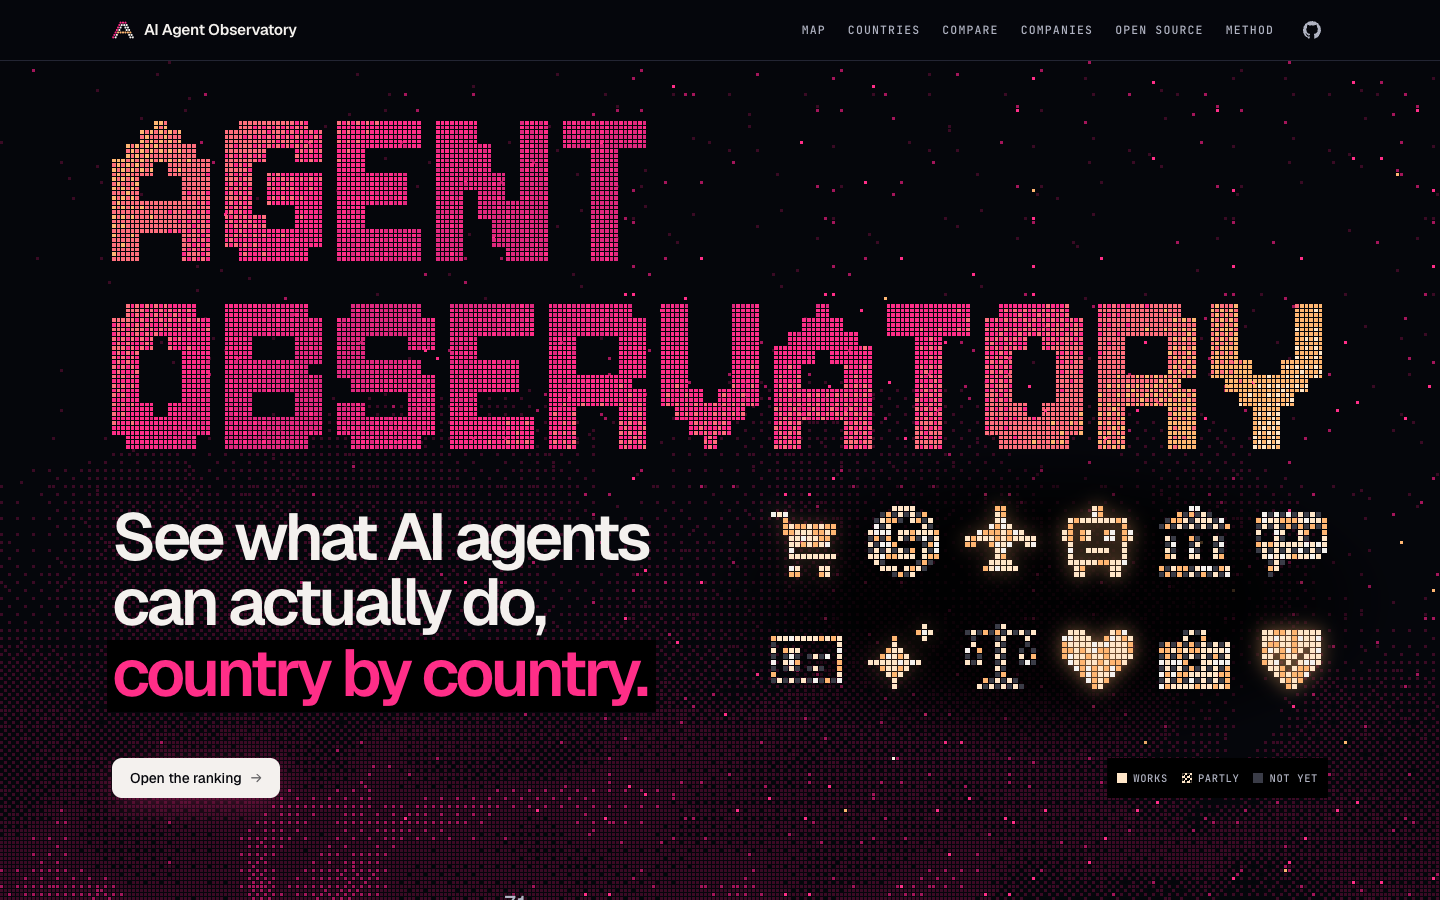
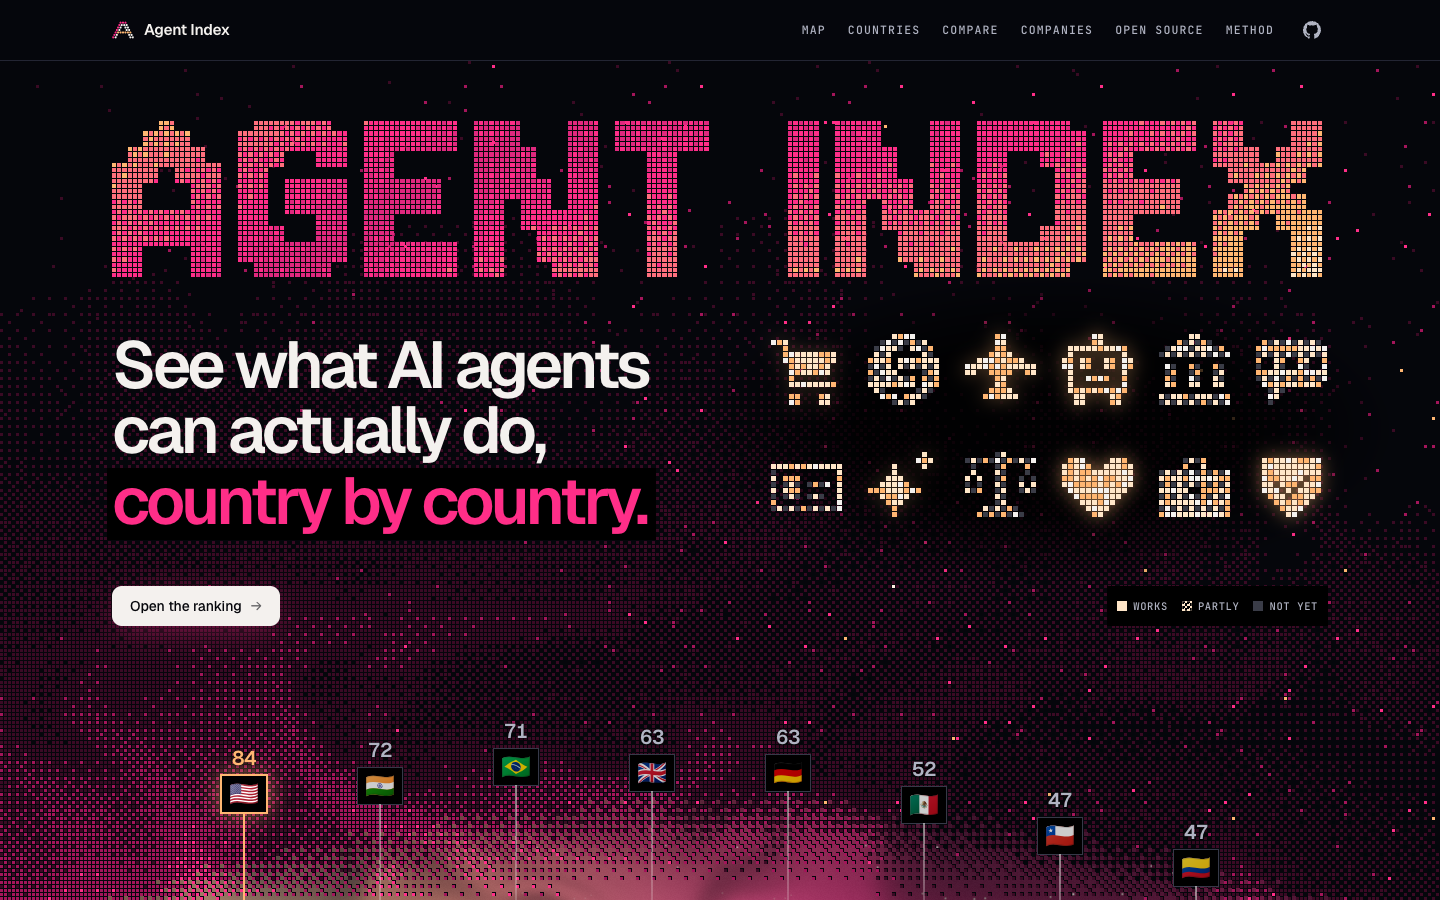
Rename the site to Agent Index (#127)
* Rename the site from AI Agent Observatory to Agent Index

The page title, brand, footer, aria labels, console label and hero
wordmark now say Agent Index. The wordmark is one line on wide screens
and two stacked lines on phones. README, data license credit and the
verify skill's title check use the new name too.

* Retake README screenshots with the Agent Index name

---------

diff --git a/index.html b/index.html
@@ -5,7 +5,7 @@
   <meta name="color-scheme" content="dark">
   <meta name="theme-color" content="#05060b">
   <meta name="viewport" content="width=device-width, initial-scale=1">
-  <title>AI Agent Observatory</title>
+  <title>Agent Index</title>
   <meta name="description" content="What AI agents can actually do in each country: shop, pay, book, bank and more. Every status is backed by a source.">
   <link rel="icon" href="favicon.svg" type="image/svg+xml">
   <link rel="preconnect" href="https://fonts.googleapis.com">
@@ -38,9 +38,9 @@
 <body>
   <header class="nav">
     <div class="wrap nav-inner">
-      <a class="brand" href="#top" aria-label="AI Agent Observatory, home">
+      <a class="brand" href="#top" aria-label="Agent Index, home">
         <svg viewBox="0 -1 9 9" aria-hidden="true"><circle cx="3.5" cy="0.5" r=".42" class="brand-edge"/><circle cx="4.5" cy="0.5" r=".42" class="brand-edge"/><circle cx="5.5" cy="0.5" r=".42" class="brand-edge"/><circle cx="3" cy="1.5" r=".42" class="brand-edge"/><circle cx="4" cy="1.5" r=".42"/><circle cx="5" cy="1.5" r=".42"/><circle cx="6" cy="1.5" r=".42"/><circle cx="2.5" cy="2.5" r=".42" class="brand-edge"/><circle cx="3.5" cy="2.5" r=".42"/><circle cx="5.5" cy="2.5" r=".42"/><circle cx="6.5" cy="2.5" r=".42"/><circle cx="2" cy="3.5" r=".42" class="brand-edge"/><circle cx="3" cy="3.5" r=".42"/><circle cx="6" cy="3.5" r=".42"/><circle cx="7" cy="3.5" r=".42"/><circle cx="1.5" cy="4.5" r=".42" class="brand-edge"/><circle cx="2.5" cy="4.5" r=".42" class="brand-bar"/><circle cx="3.5" cy="4.5" r=".42" class="brand-bar"/><circle cx="4.5" cy="4.5" r=".42" class="brand-bar"/><circle cx="5.5" cy="4.5" r=".42" class="brand-bar"/><circle cx="6.5" cy="4.5" r=".42" class="brand-bar"/><circle cx="7.5" cy="4.5" r=".42" class="brand-bar"/><circle cx="1" cy="5.5" r=".42" class="brand-edge"/><circle cx="2" cy="5.5" r=".42"/><circle cx="7" cy="5.5" r=".42"/><circle cx="8" cy="5.5" r=".42"/><circle cx="0.5" cy="6.5" r=".42" class="brand-edge"/><circle cx="1.5" cy="6.5" r=".42"/><circle cx="7.5" cy="6.5" r=".42"/><circle cx="8.5" cy="6.5" r=".42"/></svg>
-        <span>AI Agent Observatory</span>
+        <span>Agent Index</span>
       </a>
       <button type="button" class="nav-menu" aria-expanded="false" aria-controls="site-nav" data-nav-menu>Menu</button>
       <nav id="site-nav" aria-label="Sections">
@@ -61,7 +61,7 @@
     <section class="hero" aria-labelledby="hero-title" data-hero>
       <canvas class="hero-sky" aria-hidden="true"></canvas>
       <div class="wrap hero-wm-wrap">
-        <canvas class="hero-wm" role="img" aria-label="Agent Observatory"></canvas>
+        <canvas class="hero-wm" role="img" aria-label="Agent Index"></canvas>
       </div>
       <div class="wrap hero-copy">
         <div class="hero-grid">
@@ -87,7 +87,7 @@
          the selected country on the right, then the matrix, the ranking, the categories and the newest sources. -->
     <div class="term" data-term>
       <div class="term-bar">
-        <span class="term-app"><i aria-hidden="true"></i>Observatory</span>
+        <span class="term-app"><i aria-hidden="true"></i>Agent Index</span>
         <span class="term-path">countries / <b data-term-country></b></span>
         <span class="term-fill" aria-hidden="true"></span>
         <span class="term-date"><i aria-hidden="true"></i>Data <span data-asof-iso></span></span>
@@ -250,7 +250,7 @@
   </main>
 
   <footer class="wrap foot foot-site">
-    <p>AI Agent Observatory, made by <a class="nowrap" href="https://ramonsanchez.xyz/" target="_blank" rel="noopener noreferrer">Ramon Sanchez</a>. Availability changes fast. A cell says what was true on <span data-asof></span>.</p>
+    <p>Agent Index, made by <a class="nowrap" href="https://ramonsanchez.xyz/" target="_blank" rel="noopener noreferrer">Ramon Sanchez</a>. Availability changes fast. A cell says what was true on <span data-asof></span>.</p>
     <p data-foot-count></p>
     <p class="foot-links"><a href="https://github.com/rasabaq/agents-index" target="_blank" rel="noopener noreferrer">Code on GitHub</a><a href="https://github.com/rasabaq/agents-index/tree/main/data" target="_blank" rel="noopener noreferrer">Data (CC BY 4.0)</a><a href="https://github.com/rasabaq/agents-index/blob/main/docs/methodology.md" target="_blank" rel="noopener noreferrer">Methodology</a></p>
   </footer>

diff --git a/hero.js b/hero.js
@@ -237,16 +237,17 @@ function drawSky(t) {
 
 /* ---------- wordmark: Jersey 10 rasterised to a cell grid, filled with a drifting magenta-to-sunrise dither ---------- */
 const WM = ['#E0287E', '#FF2E88', '#FF6F7D', '#FFB672', '#FFE6C8'];
-const LINES = ['AGENT', 'OBSERVATORY'];
 const wdpr = Math.min(devicePixelRatio || 1, 2);
 const wg = wm.getContext('2d');
 let lit = null, cols = 0, rows = 0, cell = 0, gapD = 0;
 function buildMask() {
   const avail = wm.clientWidth;
   if (!avail || !wg) return false;
+  // One line on wide screens; stacked on phones, where one line would be too short to read as a hero.
+  const LINES = avail < 640 ? ['AGENT', 'INDEX'] : ['AGENT INDEX'];
   const t = document.createElement('canvas').getContext('2d');
   t.font = '28px "Jersey 10", monospace';
-  const base = t.measureText('OBSERVATORY');
+  const base = t.measureText('AGENT INDEX');
   const bw = base.actualBoundingBoxLeft + base.actualBoundingBoxRight;
   // Whole-number font scale keeps every glyph pixel the same size.
   const k = Math.max(1, Math.round(avail / (bw * 4.5)));
@@ -254,7 +255,7 @@ function buildMask() {
   t.font = `${28 * k}px "Jersey 10", monospace`;
   const ms = LINES.map((s) => t.measureText(s));
   cols = Math.ceil(Math.max(...ms.map((m) => m.actualBoundingBoxLeft + m.actualBoundingBoxRight))) + 1;
-  rows = capH * 2 + lead;
+  rows = capH * LINES.length + lead * (LINES.length - 1);
   const mk = document.createElement('canvas');
   mk.width = cols; mk.height = rows;
   const mc = mk.getContext('2d');

diff --git a/app.js b/app.js
@@ -393,7 +393,7 @@ function renderMethod() {
   $('[data-crop-pairs]').innerHTML = Object.entries(STATUSES).map(([k, s]) => `${dot({ status: k })}${dot({ status: k, confidence: 'low' })}<span>${s.label} · ${s.points}</span>`).join('');
   const r = byCode[state.country];
   $('[data-crop-term]').innerHTML = `
-    <p><span class="ps">$</span> observatory score ${r.code}</p>
+    <p><span class="ps">$</span> agentindex score ${r.code}</p>
     <p>&nbsp;&nbsp;category = mean(points) × 100</p>
     <p>&nbsp;&nbsp;country&nbsp;&nbsp;= mean(categories)</p>
     <p>${flag(r.code)}<b>${r.score}</b> · tier ${tierOf(r.score)} · rank ${r.rank} of ${ranking.length}</p>`;

diff --git a/README.md b/README.md
@@ -1,4 +1,4 @@
-# AI Agent Observatory
+# Agent Index
 
 [![Live site](https://img.shields.io/badge/live-agentindex.art-ff2d87)](https://agentindex.art)
 [![CI](https://github.com/rasabaq/agents-index/actions/workflows/ci.yml/badge.svg)](https://github.com/rasabaq/agents-index/actions/workflows/ci.yml)
@@ -7,11 +7,11 @@
 
 Not how much AI a country has, but **what AI agents can actually do there**.
 
-[![The AI Agent Observatory home page](docs/images/hero.png)](https://agentindex.art)
+[![The Agent Index home page](docs/images/hero.png)](https://agentindex.art)
 
-In the US, an AI agent can buy from a merchant inside a chat assistant. In Chile, can it? This observatory tracks concrete agent capabilities country by country. Every status cites a source, and the countries are ranked by what agents can do for ordinary people and businesses.
+In the US, an AI agent can buy from a merchant inside a chat assistant. In Chile, can it? This index tracks concrete agent capabilities country by country. Every status cites a source, and the countries are ranked by what agents can do for ordinary people and businesses.
 
-**[Open the observatory at agentindex.art →](https://agentindex.art)**
+**[Open the Agent Index at agentindex.art →](https://agentindex.art)**
 
 ## A quick tour
 
@@ -80,4 +80,4 @@ See [CONTRIBUTING.md](CONTRIBUTING.md). To report a wrong status, open a [data c
 ## License
 
 - Code: [MIT](LICENSE).
-- Data in `data/`: [CC BY 4.0](https://creativecommons.org/licenses/by/4.0/) (see [data/LICENSE](data/LICENSE)). You may reuse it with credit to the AI Agent Observatory.
+- Data in `data/`: [CC BY 4.0](https://creativecommons.org/licenses/by/4.0/) (see [data/LICENSE](data/LICENSE)). You may reuse it with credit to the Agent Index.

diff --git a/.claude/skills/verify-observatory/SKILL.md b/.claude/skills/verify-observatory/SKILL.md
@@ -1,9 +1,9 @@
 ---
 name: verify-observatory
-description: Drive the AI Agent Observatory site (the home page: hero, console and charts) in a real headless Chrome and capture proof (screenshots at 1440px and 400px, page state, page errors). Use it to verify a UI change, review a site PR, or check that a feature still works, before you call a change done.
+description: Drive the Agent Index site (the home page: hero, console and charts) in a real headless Chrome and capture proof (screenshots at 1440px and 400px, page state, page errors). Use it to verify a UI change, review a site PR, or check that a feature still works, before you call a change done.
 ---
 
-# Verify the AI Agent Observatory
+# Verify the Agent Index
 
 The product is a static web site, with no build step and no backend. Its surfaces:
 
@@ -59,7 +59,7 @@ node $H doctor
 
 It checks:
 - The server, Chrome and holder processes of this run are alive.
-- `/` is the observatory (its `<title>`).
+- `/` is the Agent Index (its `<title>`).
 - `data/meta.json` loads and has countries.
 - `HEAD` is still the revision that `up` served.
 - The Chrome DevTools endpoint answers.

diff --git a/.claude/skills/verify-observatory/features/README.md b/.claude/skills/verify-observatory/features/README.md
@@ -1,6 +1,6 @@
-# AI Agent Observatory verification map
+# Agent Index verification map
 
-This folder is the maintained source for verifying what visitors see and do on the observatory site. Read this index before you drive the site, then use the matching feature file as the recipe.
+This folder is the maintained source for verifying what visitors see and do on the Agent Index site. Read this index before you drive the site, then use the matching feature file as the recipe.
 
 ## Baseline preconditions
 
